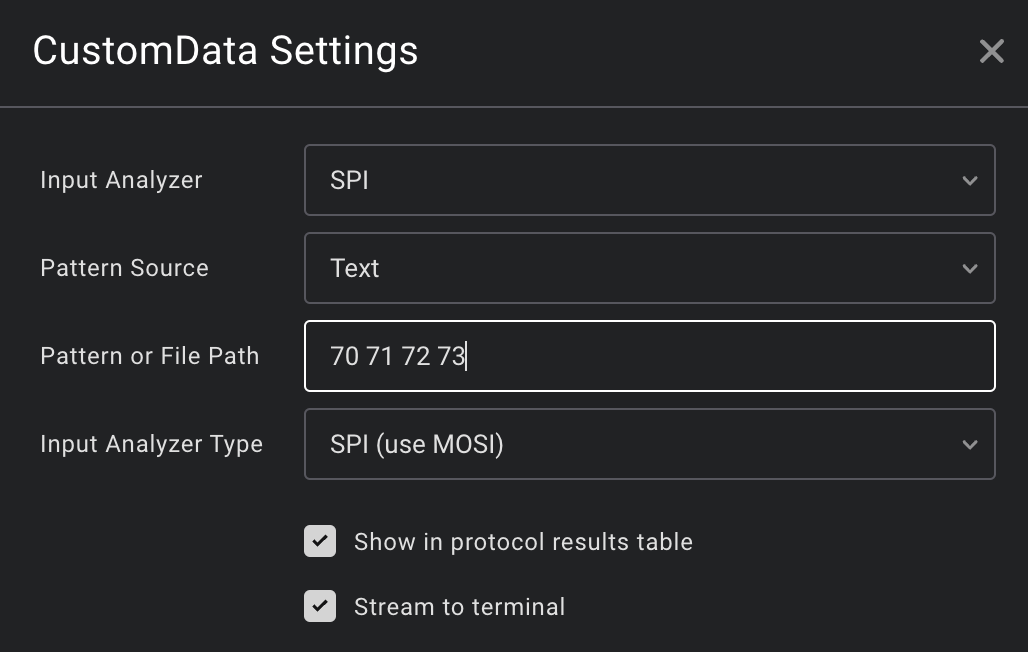
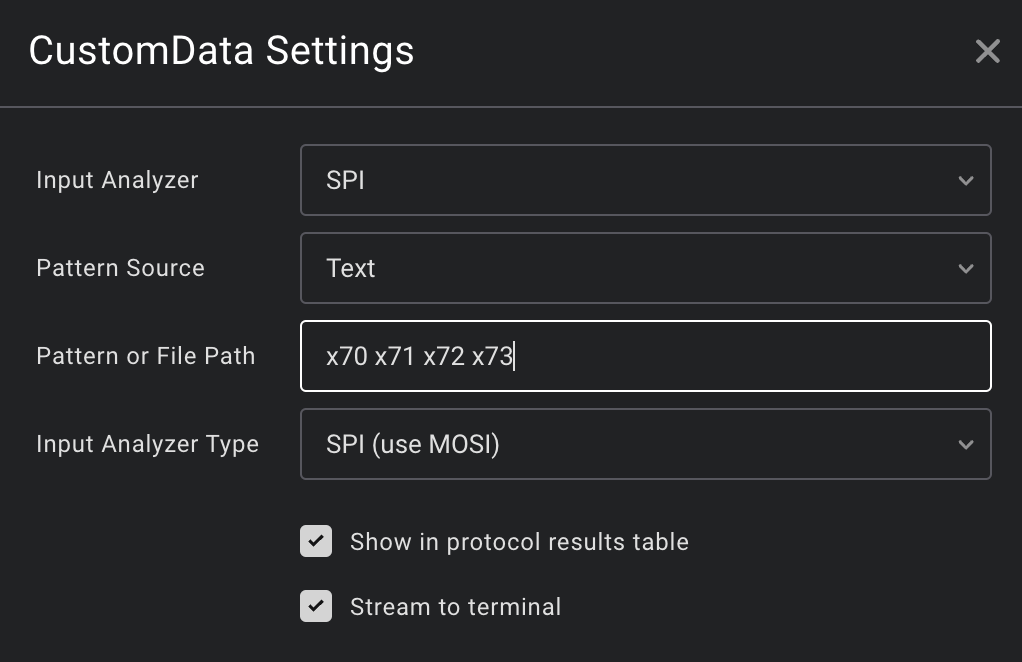
Update test and docs to prepare for explicit bases
Adding support for dec/bin, which I would like, is really tricky to do nicely when there's an unusual default (hex in this case).
This format requires a base to be given explicitly, but it's still a pretty concise format.

The tests are failing - I'll do the implementation next. TDD!

diff --git a/test/test_pattern_parser.py b/test/test_pattern_parser.py
@@ -1,8 +1,10 @@
 from ..lib.pattern_parser import *
 from ..lib.pattern_element import *
+from ..lib.errors import InvalidDatumError
+import pytest
 
 def test_parse_sequence():
-    assert parse("ab cd") == [
+    assert parse("xAB xCD") == [
         SequencePatternElement([
             FixedPatternElement(b"\xAB"),
             FixedPatternElement(b"\xCD"),
@@ -10,7 +12,7 @@ def test_parse_sequence():
     ]
 
 def test_parse_named():
-    assert parse("\"foo\" = ab cd") == [
+    assert parse("\"foo\" = xAB xCD") == [
         NamePatternElement("foo", SequencePatternElement([
             FixedPatternElement(b"\xAB"),
             FixedPatternElement(b"\xCD"),
@@ -18,7 +20,7 @@ def test_parse_named():
     ]
 
 def test_parse_multiple():
-    assert parse("\"foo\" = ab cd ; \"bar\" = de 12;") == [
+    assert parse("\"foo\" = xAB xCD ; \"bar\" = xDE x12;") == [
         NamePatternElement("foo", SequencePatternElement([
             FixedPatternElement(b"\xAB"),
             FixedPatternElement(b"\xCD"),
@@ -30,7 +32,7 @@ def test_parse_multiple():
     ]
 
 def test_parse_wildcard():
-    assert parse("ab .. cd") == [
+    assert parse("xAB .. xCD") == [
         SequencePatternElement([
             FixedPatternElement(b"\xAB"),
             WildcardPatternElement(),
@@ -40,7 +42,7 @@ def test_parse_wildcard():
     ]
 
 def test_parse_capture():
-    assert parse("ab x:. y:. cd") == [
+    assert parse("xAB x:. y:. xCD") == [
         SequencePatternElement([
             FixedPatternElement(b"\xAB"),
             CapturePatternElement("x", WildcardPatternElement()),
@@ -50,7 +52,7 @@ def test_parse_capture():
     ]
 
 def test_parse_subpattern():
-    assert parse("ab x:(..) cd") == [
+    assert parse("xAB x:(..) xCD") == [
         SequencePatternElement([
             FixedPatternElement(b"\xAB"),
             CapturePatternElement("x", SequencePatternElement([
@@ -61,6 +63,28 @@ def test_parse_subpattern():
         ]),
     ]
 
+def test_parse_number_styles():
+    # Hex
+    assert parse("xAB")  == SequencePatternElement([FixedPatternElement(b"\xAB")])
+    assert parse("0xAB") == SequencePatternElement([FixedPatternElement(b"\xAB")])
+    assert parse("ABx")  == SequencePatternElement([FixedPatternElement(b"\xAB")])
+
+    # Decimal
+    assert parse("d16")  == SequencePatternElement([FixedPatternElement(b"\x10")])
+    assert parse("0d16") == SequencePatternElement([FixedPatternElement(b"\x10")])
+    assert parse("16d")  == SequencePatternElement([FixedPatternElement(b"\x10")])
+
+    # Binary
+    assert parse("b100")  == SequencePatternElement([FixedPatternElement(b"\x04")])
+    assert parse("0b100") == SequencePatternElement([FixedPatternElement(b"\x04")])
+    assert parse("100b")  == SequencePatternElement([FixedPatternElement(b"\x04")])
+
+    # Special case - zero doesn't need a base
+    assert parse("0") == SequencePatternElement([FixedPatternElement(b"\0")])
+
+    # But other numbers do
+    with pytest.raises(InvalidDatumError):
+        parse("4")
 
 def parse(input: str):
     return Parser(Tokenizer(input).tokenize()).parse()

diff --git a/test/test_byte_formatter.py b/test/test_byte_formatter.py
@@ -1,10 +1,10 @@
 from ..lib.byte_formatter import ByteFormatter
 
 def test_default_format():
-    assert "{}".format(ByteFormatter(bytes([1, 2, 0xa]))) == "01020a"
+    assert "{}".format(ByteFormatter(bytes([1, 2, 0xa]))) == "x01020A"
 
 def test_spaced_format():
-    assert "{:s}".format(ByteFormatter(bytes([1, 2, 0xa]))) == "01 02 0a"
+    assert "{:s}".format(ByteFormatter(bytes([1, 2, 0xa]))) == "x01 x02 x0A"
 
 def test_integer_conversion():
     assert "{:B}".format(ByteFormatter(bytes([1, 2, 0xa]))) == "66058"

diff --git a/README.md b/README.md
@@ -10,10 +10,10 @@ Custom Data uses a [custom language](#pattern-reference) to describe and annotat
 example, you could write patterns to describe the protocol of an (imaginary) display:
 
 ```
-"Reset" = fa ;
-"Set Pixel: {r}, {g}, {b}" = fd r:. g:. b:. ;
-"Set X Pos: {xPos:B}" = fb xPos:(..) ;
-"Set Y Pos: {yPos:B}" = fc yPos:(..) ;
+"Reset" = xFA ;
+"Set Pixel: {r}, {g}, {b}" = xFD r:. g:. b:. ;
+"Set X Pos: {xPos:B}" = xFB xPos:(..) ;
+"Set Y Pos: {yPos:B}" = xFC yPos:(..) ;
 ```
 
 Quick patterns can be added as a one-off string, or longer patterns for complex protocols can be
@@ -24,9 +24,9 @@ loaded from files for re-use across many sessions.
 Let's annotate some data in an SPI capture, from the MOSI side.
 
 To start simple, we'll annotate the fixed four-byte sequence `0x70, 0x71, 0x72, 0x73`, by adding a
-`CustomData` analyzer and entering the pattern `70 71 72 73`:
+`CustomData` analyzer and entering the pattern `x70 x71 x72 x73`:
 
-![The Analyzer Settings window, showing the pattern "70 71 72 73" entered.](img/settings.png)
+![The Analyzer Settings window, showing the pattern "x70 x71 x72 x73" entered.](img/settings.png)
 
 This creates an annotation on the relevant data:
 
@@ -35,14 +35,14 @@ This creates an annotation on the relevant data:
 However, we've not assigned a name to this pattern, so it currently shows as `(unnamed)`, which
 isn't too useful.
 
-We can assign a name using `"Foo" = 70 71 72 73`:
+We can assign a name using `"Foo" = x70 x71 x72 x73`:
 
 ![The same capture, but with the annotation showing "Foo" instead.](img/steps_2_named.png)
 
 Let's make the pattern more flexible, by pretending that in reality, this is a command-based format
 where `0x70, 0x71` is the command, and the following two bytes are data.
 
-Replacing the last two bytes with a wildcard `.` gives `"Foo" = 70 71 ..`, and the result does not
+Replacing the last two bytes with a wildcard `.` gives `"Foo" = x70 x71 ..`, and the result does not
 change. Great!
 
 But what if we'd like to see that data on the annotation?
@@ -52,7 +52,7 @@ syntax. Because `..` is really two separate wildcard patterns, we'll need to wra
 parentheses to capture both of them. Also, we can pretend that those two data bytes represent a
 little endian integer, and use the `L` format specifier to convert for us.
 
-This gives the pattern `"Foo: {data:L}" = 70 71 data:(..)`, which results in...
+This gives the pattern `"Foo: {data:L}" = x70 x71 data:(..)`, which results in...
 
 ![The same capture, but with the annotation showing "Foo 29554" instead.](img/steps_3_capture.png)
 
@@ -60,7 +60,10 @@ This gives the pattern `"Foo: {data:L}" = 70 71 data:(..)`, which results in...
 
 ### Basics
 
-- **Fixed bytes:** Match particular bytes by writing them in hexadecimal: `7a 1b`
+- **Fixed bytes:** Match particular bytes by writing them out: `x7A x1B`
+  - Supported formats are hexadecimal (`x`), decimal (`d`), and binary (`b`)
+  - The base can be specified using the form `xAA`, `AAx`, or `0xAA` - whichever you prefer
+  - `0` is special, and doesn't need a base
 - **Wildcards:** Match any one byte with `.`
 - **Grouping:** Treat a sequence of elements as one by wrapping them in parentheses. This isn't too
   useful on its own, but comes in handy for capturing multiple bytes.
@@ -77,8 +80,8 @@ Captured data can be interpolated into a name using standard Python formatting s
 
 The following formatting specifiers (usable with e.g. `{x:L}`) are supported:
 
-- _Nothing_: Render as packed hex: `abcdef1234`
-- `S`: Render as **s**paced hex: `ab cd ef 12 34`
+- _Nothing_: Render as packed hex: `xABCDEF1234`
+- `S`: Render as **s**paced hex: `xAB xCD xEF x12 x34`
 - `L`: Interpret bytes as an unsigned **l**ittle-endian integer
 - `B`: Interpret bytes as an unsigned **b**ig-endian integer
 
